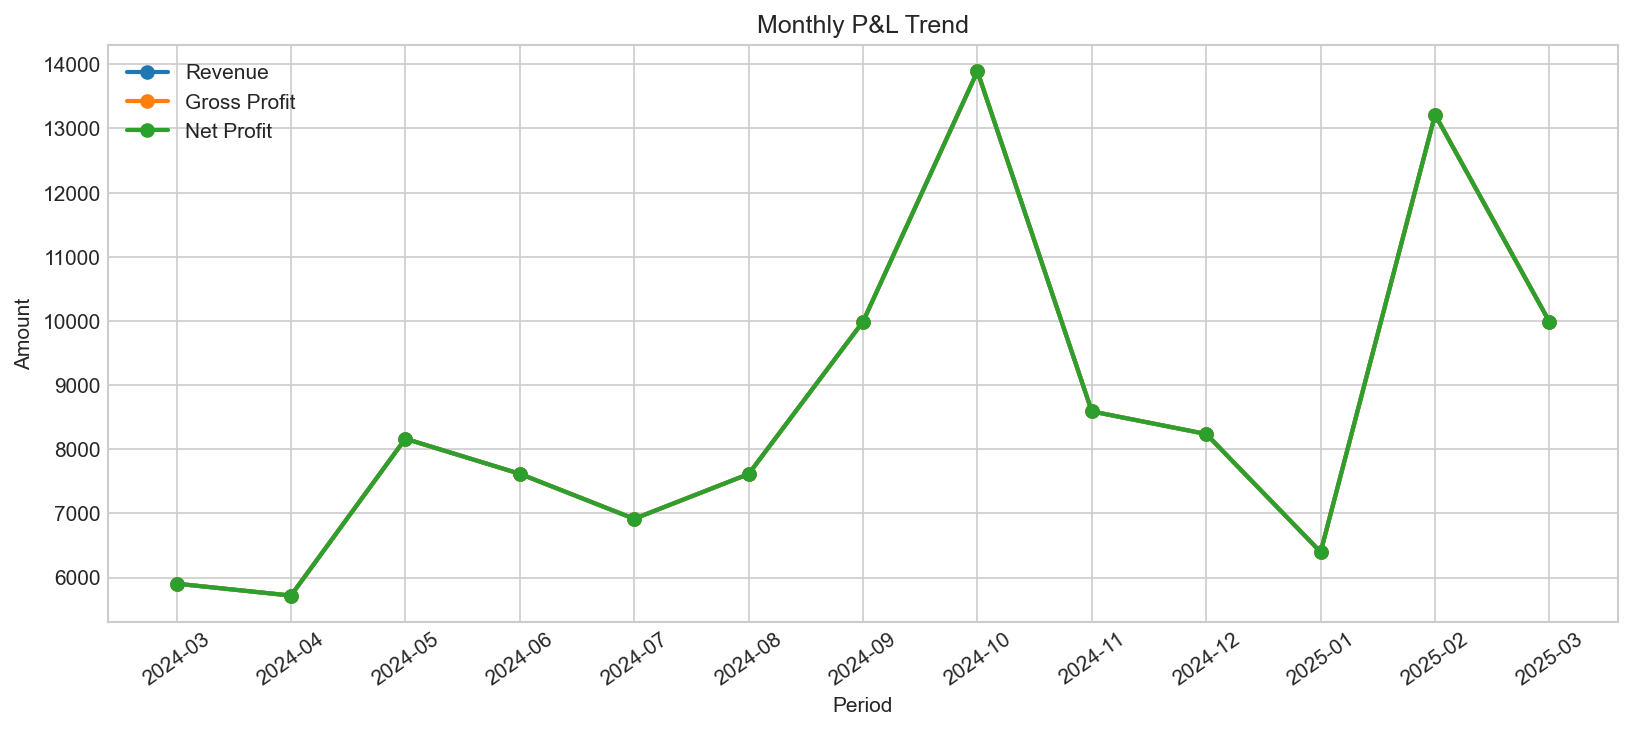
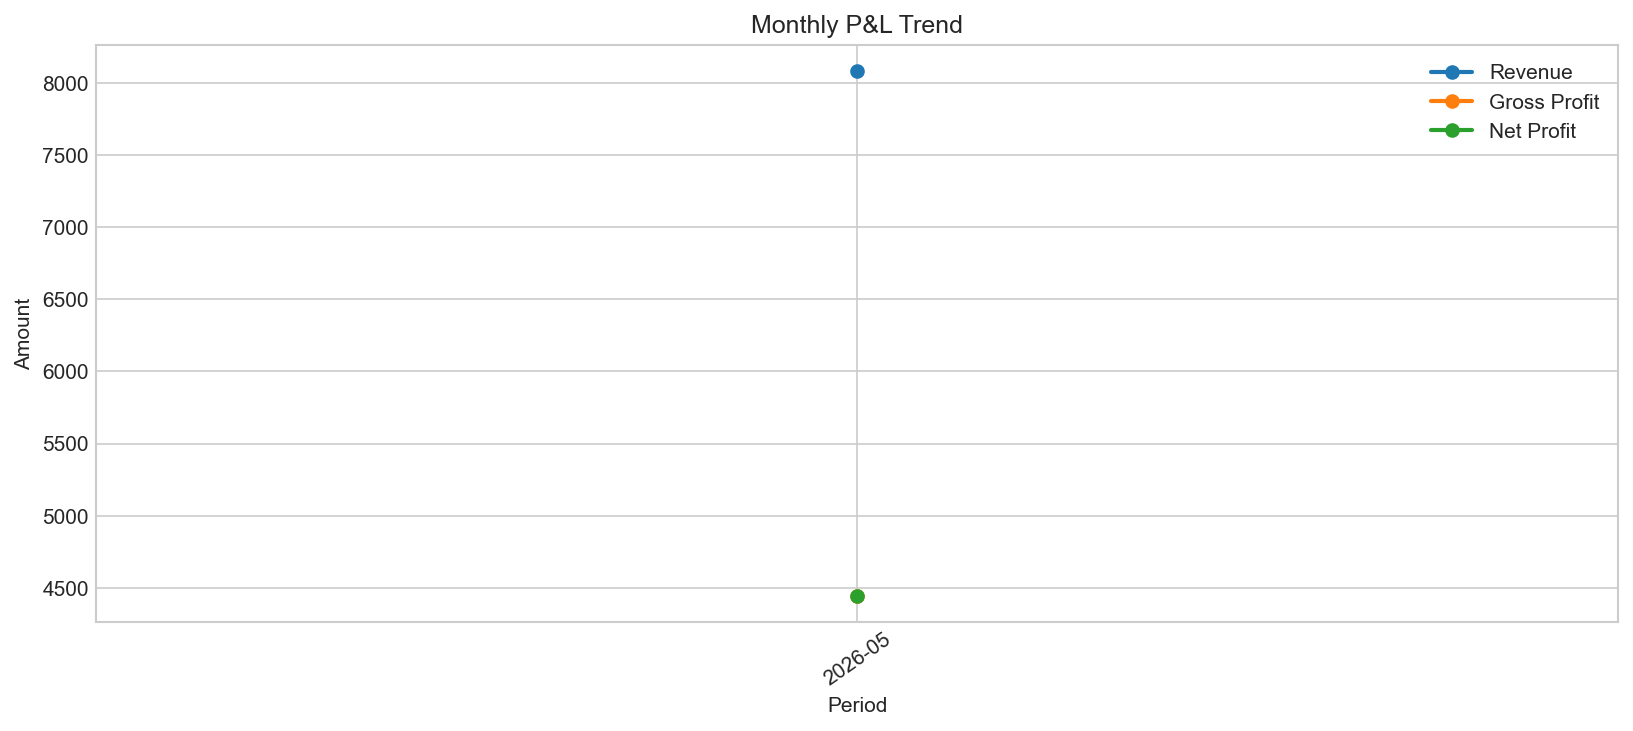
updated

diff --git a/analysis_output/raw_coffee_sales_business_report.md b/analysis_output/raw_coffee_sales_business_report.md
@@ -1,6 +1,6 @@
 # Business Insight Report - raw_coffee_sales.csv
 
-Generated at: 2026-05-26 19:58:29
+Generated at: 2026-05-28 21:47:21
 
 ## Executive Summary
 
@@ -75,20 +75,20 @@ Generated at: 2026-05-26 19:58:29
 
 ## Output Files
 
-- Cleaned CSV: `C:/Users/hieum/Desktop/Repo/Coffee_sales/Coffee_Sales/analysis_output/raw_coffee_sales_cleaned.csv`
+- Cleaned CSV: `C:/Users/hueyn/Desktop/Coffee_Sales/analysis_output/raw_coffee_sales_cleaned.csv`
 - Charts:
-  - `C:/Users/hieum/Desktop/Repo/Coffee_sales/Coffee_Sales/analysis_output/charts/revenue_profit_trend.png`
-  - `C:/Users/hieum/Desktop/Repo/Coffee_sales/Coffee_Sales/analysis_output/charts/top_region_by_revenue.png`
-  - `C:/Users/hieum/Desktop/Repo/Coffee_sales/Coffee_Sales/analysis_output/charts/margin_by_region.png`
-  - `C:/Users/hieum/Desktop/Repo/Coffee_sales/Coffee_Sales/analysis_output/charts/top_store_by_revenue.png`
-  - `C:/Users/hieum/Desktop/Repo/Coffee_sales/Coffee_Sales/analysis_output/charts/margin_by_store.png`
-  - `C:/Users/hieum/Desktop/Repo/Coffee_sales/Coffee_Sales/analysis_output/charts/top_category_by_revenue.png`
-  - `C:/Users/hieum/Desktop/Repo/Coffee_sales/Coffee_Sales/analysis_output/charts/margin_by_category.png`
-  - `C:/Users/hieum/Desktop/Repo/Coffee_sales/Coffee_Sales/analysis_output/charts/top_product_by_revenue.png`
-  - `C:/Users/hieum/Desktop/Repo/Coffee_sales/Coffee_Sales/analysis_output/charts/margin_by_product.png`
-  - `C:/Users/hieum/Desktop/Repo/Coffee_sales/Coffee_Sales/analysis_output/charts/discount_vs_profit_margin.png`
-  - `C:/Users/hieum/Desktop/Repo/Coffee_sales/Coffee_Sales/analysis_output/charts/numeric_correlation_heatmap.png`
-  - `C:/Users/hieum/Desktop/Repo/Coffee_sales/Coffee_Sales/analysis_output/charts/missing_values_before_cleaning.png`
+  - `C:/Users/hueyn/Desktop/Coffee_Sales/analysis_output/charts/revenue_profit_trend.png`
+  - `C:/Users/hueyn/Desktop/Coffee_Sales/analysis_output/charts/top_region_by_revenue.png`
+  - `C:/Users/hueyn/Desktop/Coffee_Sales/analysis_output/charts/margin_by_region.png`
+  - `C:/Users/hueyn/Desktop/Coffee_Sales/analysis_output/charts/top_store_by_revenue.png`
+  - `C:/Users/hueyn/Desktop/Coffee_Sales/analysis_output/charts/margin_by_store.png`
+  - `C:/Users/hueyn/Desktop/Coffee_Sales/analysis_output/charts/top_category_by_revenue.png`
+  - `C:/Users/hueyn/Desktop/Coffee_Sales/analysis_output/charts/margin_by_category.png`
+  - `C:/Users/hueyn/Desktop/Coffee_Sales/analysis_output/charts/top_product_by_revenue.png`
+  - `C:/Users/hueyn/Desktop/Coffee_Sales/analysis_output/charts/margin_by_product.png`
+  - `C:/Users/hueyn/Desktop/Coffee_Sales/analysis_output/charts/discount_vs_profit_margin.png`
+  - `C:/Users/hueyn/Desktop/Coffee_Sales/analysis_output/charts/numeric_correlation_heatmap.png`
+  - `C:/Users/hueyn/Desktop/Coffee_Sales/analysis_output/charts/missing_values_before_cleaning.png`
 
 ## Suggested Next Analyst Steps
 

diff --git a/financial_report_output/raw_coffee_sales_financial_report.md b/financial_report_output/raw_coffee_sales_financial_report.md
@@ -1,6 +1,6 @@
 # Financial Report - raw_coffee_sales.csv
 
-Generated at: 2026-05-26 20:07:49
+Generated at: 2026-05-28 21:46:13
 
 ## Executive Summary
 
@@ -102,15 +102,15 @@ Generated at: 2026-05-26 20:07:49
 
 ## Output Files
 
-- Cleaned CSV: `C:/Users/hieum/Desktop/Repo/Coffee_sales/Coffee_Sales/financial_report_output/raw_coffee_sales_cleaned.csv`
-- Finance fact CSV: `C:/Users/hieum/Desktop/Repo/Coffee_sales/Coffee_Sales/financial_report_output/raw_coffee_sales_finance_fact.csv`
-- Excel workbook: `C:/Users/hieum/Desktop/Repo/Coffee_sales/Coffee_Sales/financial_report_output/raw_coffee_sales_financial_workbook.xlsx`
+- Cleaned CSV: `C:/Users/hueyn/Desktop/Coffee_Sales/financial_report_output/raw_coffee_sales_cleaned.csv`
+- Finance fact CSV: `C:/Users/hueyn/Desktop/Coffee_Sales/financial_report_output/raw_coffee_sales_finance_fact.csv`
+- Excel workbook: `C:/Users/hueyn/Desktop/Coffee_Sales/financial_report_output/raw_coffee_sales_financial_workbook.xlsx`
 - Charts:
-  - `C:/Users/hieum/Desktop/Repo/Coffee_sales/Coffee_Sales/financial_report_output/charts/monthly_pnl_trend.png`
-  - `C:/Users/hieum/Desktop/Repo/Coffee_sales/Coffee_Sales/financial_report_output/charts/pnl_summary.png`
-  - `C:/Users/hieum/Desktop/Repo/Coffee_sales/Coffee_Sales/financial_report_output/charts/top_expense_drivers.png`
-  - `C:/Users/hieum/Desktop/Repo/Coffee_sales/Coffee_Sales/financial_report_output/charts/margin_trend.png`
-  - `C:/Users/hieum/Desktop/Repo/Coffee_sales/Coffee_Sales/financial_report_output/charts/profitability_by_region.png`
+  - `C:/Users/hueyn/Desktop/Coffee_Sales/financial_report_output/charts/monthly_pnl_trend.png`
+  - `C:/Users/hueyn/Desktop/Coffee_Sales/financial_report_output/charts/pnl_summary.png`
+  - `C:/Users/hueyn/Desktop/Coffee_Sales/financial_report_output/charts/top_expense_drivers.png`
+  - `C:/Users/hueyn/Desktop/Coffee_Sales/financial_report_output/charts/margin_trend.png`
+  - `C:/Users/hueyn/Desktop/Coffee_Sales/financial_report_output/charts/profitability_by_region.png`
 
 ## Assumptions
 